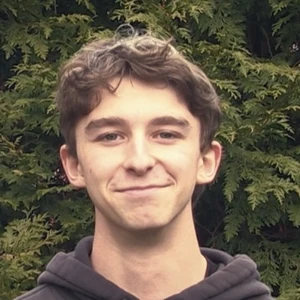
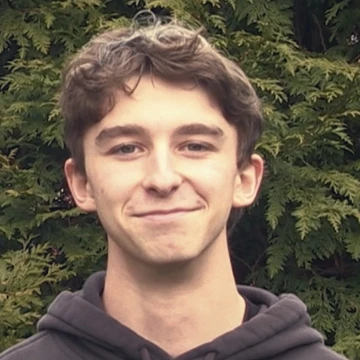
Recenter and enlarge the founder photo
Recropped with precise eye-line/face-width measurements so the head
sits centered both axes instead of skewed high-and-right. Bumped
display size across the board: 64px->96px in the new dark founder
section, 110px->132px on the about page card, 70px->84px on mobile.

diff --git a/about.html b/about.html
@@ -157,7 +157,7 @@
                         <div class="founder-avatar">
                             <picture>
                                 <source srcset="./assets/founder-jack.webp" type="image/webp">
-                                <img src="./assets/founder-jack.jpg" alt="Daniel &quot;Jack&quot;, creator of Hari" class="founder-avatar-photo" width="300" height="300" loading="lazy">
+                                <img src="./assets/founder-jack.jpg" alt="Daniel &quot;Jack&quot;, creator of Hari" class="founder-avatar-photo" width="360" height="360" loading="lazy">
                             </picture>
                         </div>
                         <div class="founder-meta">

diff --git a/index.html b/index.html
@@ -320,7 +320,7 @@
                     <div class="founder-avatar">
                         <picture>
                             <source srcset="./assets/founder-jack.webp" type="image/webp">
-                            <img src="./assets/founder-jack.jpg" alt="Daniel &quot;Jack&quot;, creator of Hari" class="founder-avatar-photo" width="300" height="300" loading="lazy">
+                            <img src="./assets/founder-jack.jpg" alt="Daniel &quot;Jack&quot;, creator of Hari" class="founder-avatar-photo" width="360" height="360" loading="lazy">
                         </picture>
                     </div>
                     <div class="founder-meta">

diff --git a/styles.css b/styles.css
@@ -867,8 +867,8 @@ body {
 }
 
 .founder-wild-content .founder-avatar {
-    width: 64px;
-    height: 64px;
+    width: 96px;
+    height: 96px;
     flex-shrink: 0;
     border-color: rgba(255, 255, 255, 0.85);
 }
@@ -955,8 +955,8 @@ body {
 }
 
 .founder-avatar {
-    width: 110px;
-    height: 110px;
+    width: 132px;
+    height: 132px;
     border-radius: 50%;
     background: linear-gradient(135deg, var(--teal), var(--gold));
     display: flex;
@@ -2356,8 +2356,8 @@ body {
     }
 
     .founder-avatar {
-        width: 70px;
-        height: 70px;
+        width: 84px;
+        height: 84px;
     }
 
     .founder-avatar-letter {
